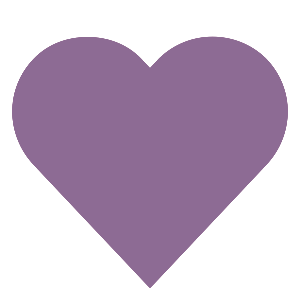
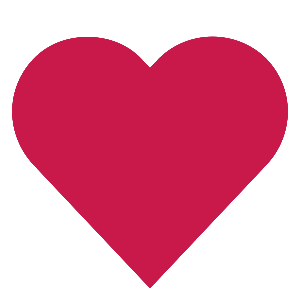
milestone5 V2

diff --git a/distantly-near-main/src/pages/login/login.css b/distantly-near-main/src/pages/login/login.css
@@ -1,7 +1,7 @@
 .login {
     width: 100vw;
     height: 100vh;
-    background-color: #FFF4E9;
+    background-color: #c9184a ;
     display: flex;
     align-items: center;
     justify-content: center;
@@ -24,7 +24,7 @@
   .loginLogo {
     font-size: 50px;
     font-weight: 800;
-    color: #8D6B94;
+    /* color: #8D6B94; */
     margin-bottom: 10px;
   }
   
@@ -58,7 +58,7 @@
       height: 50px;
       border-radius: 10px;
       border: none;
-      background-color: #C3A29E;
+      background-color: #ff758f ;
       color: white;
       font-size: 20px;
       font-weight: 500;
@@ -67,7 +67,7 @@
   
   .loginForgot{
       text-align: center;
-      color: #C3A29E;
+      color: #ff758f ;
   }
   
   .loginRegisterButton{
@@ -76,7 +76,7 @@
       height: 50px;
       border-radius: 10px;
       border: none;
-      background-color: #E8DBC5;
+      background-color: #ff758f;
       color: white;
       font-size: 20px;
       font-weight: 500;

diff --git a/distantly-near-main/src/pages/register/register.css b/distantly-near-main/src/pages/register/register.css
@@ -1,7 +1,7 @@
 .login {
     width: 100vw;
     height: 100vh;
-    background-color: #FFF4E9;
+    background-color: #c9184a ;
     display: flex;
     align-items: center;
     justify-content: center;
@@ -58,7 +58,7 @@
       height: 50px;
       border-radius: 10px;
       border: none;
-      background-color: #C3A29E;
+      background-color: #ff758f;
       color: white;
       font-size: 20px;
       font-weight: 500;
@@ -76,7 +76,7 @@
       height: 50px;
       border-radius: 10px;
       border: none;
-      background-color: #E8DBC5;
+      background-color: #ff758f;
       color: white;
       font-size: 20px;
       font-weight: 500;

diff --git a/distantly-near-main/src/pages/settings/settings.css b/distantly-near-main/src/pages/settings/settings.css
@@ -35,7 +35,7 @@
   .settingsBox{
       height: 400px;
       padding: 20px;
-      background-color: #FFF4E9;
+      background-color: #c9184a ;
       border-radius: 10px;
       display: grid;
       flex-direction: column;
@@ -48,7 +48,7 @@
       height: 50px;
       border-radius: 10px;
       border: none;
-      background-color: #c3a29e;
+      background-color: #ff758f ;
       color: white;
       font-size: 20px;
       font-weight: 500;

diff --git a/distantly-near-main/src/components/rightbar/rightbar.css b/distantly-near-main/src/components/rightbar/rightbar.css
@@ -105,7 +105,7 @@
     height: 50px;
       border-radius: 10px;
       border: none;
-      background-color: #C3A29E;
+      background-color: #ff758f;
       color: white;
       font-size: 20px;
       font-weight: 500;
